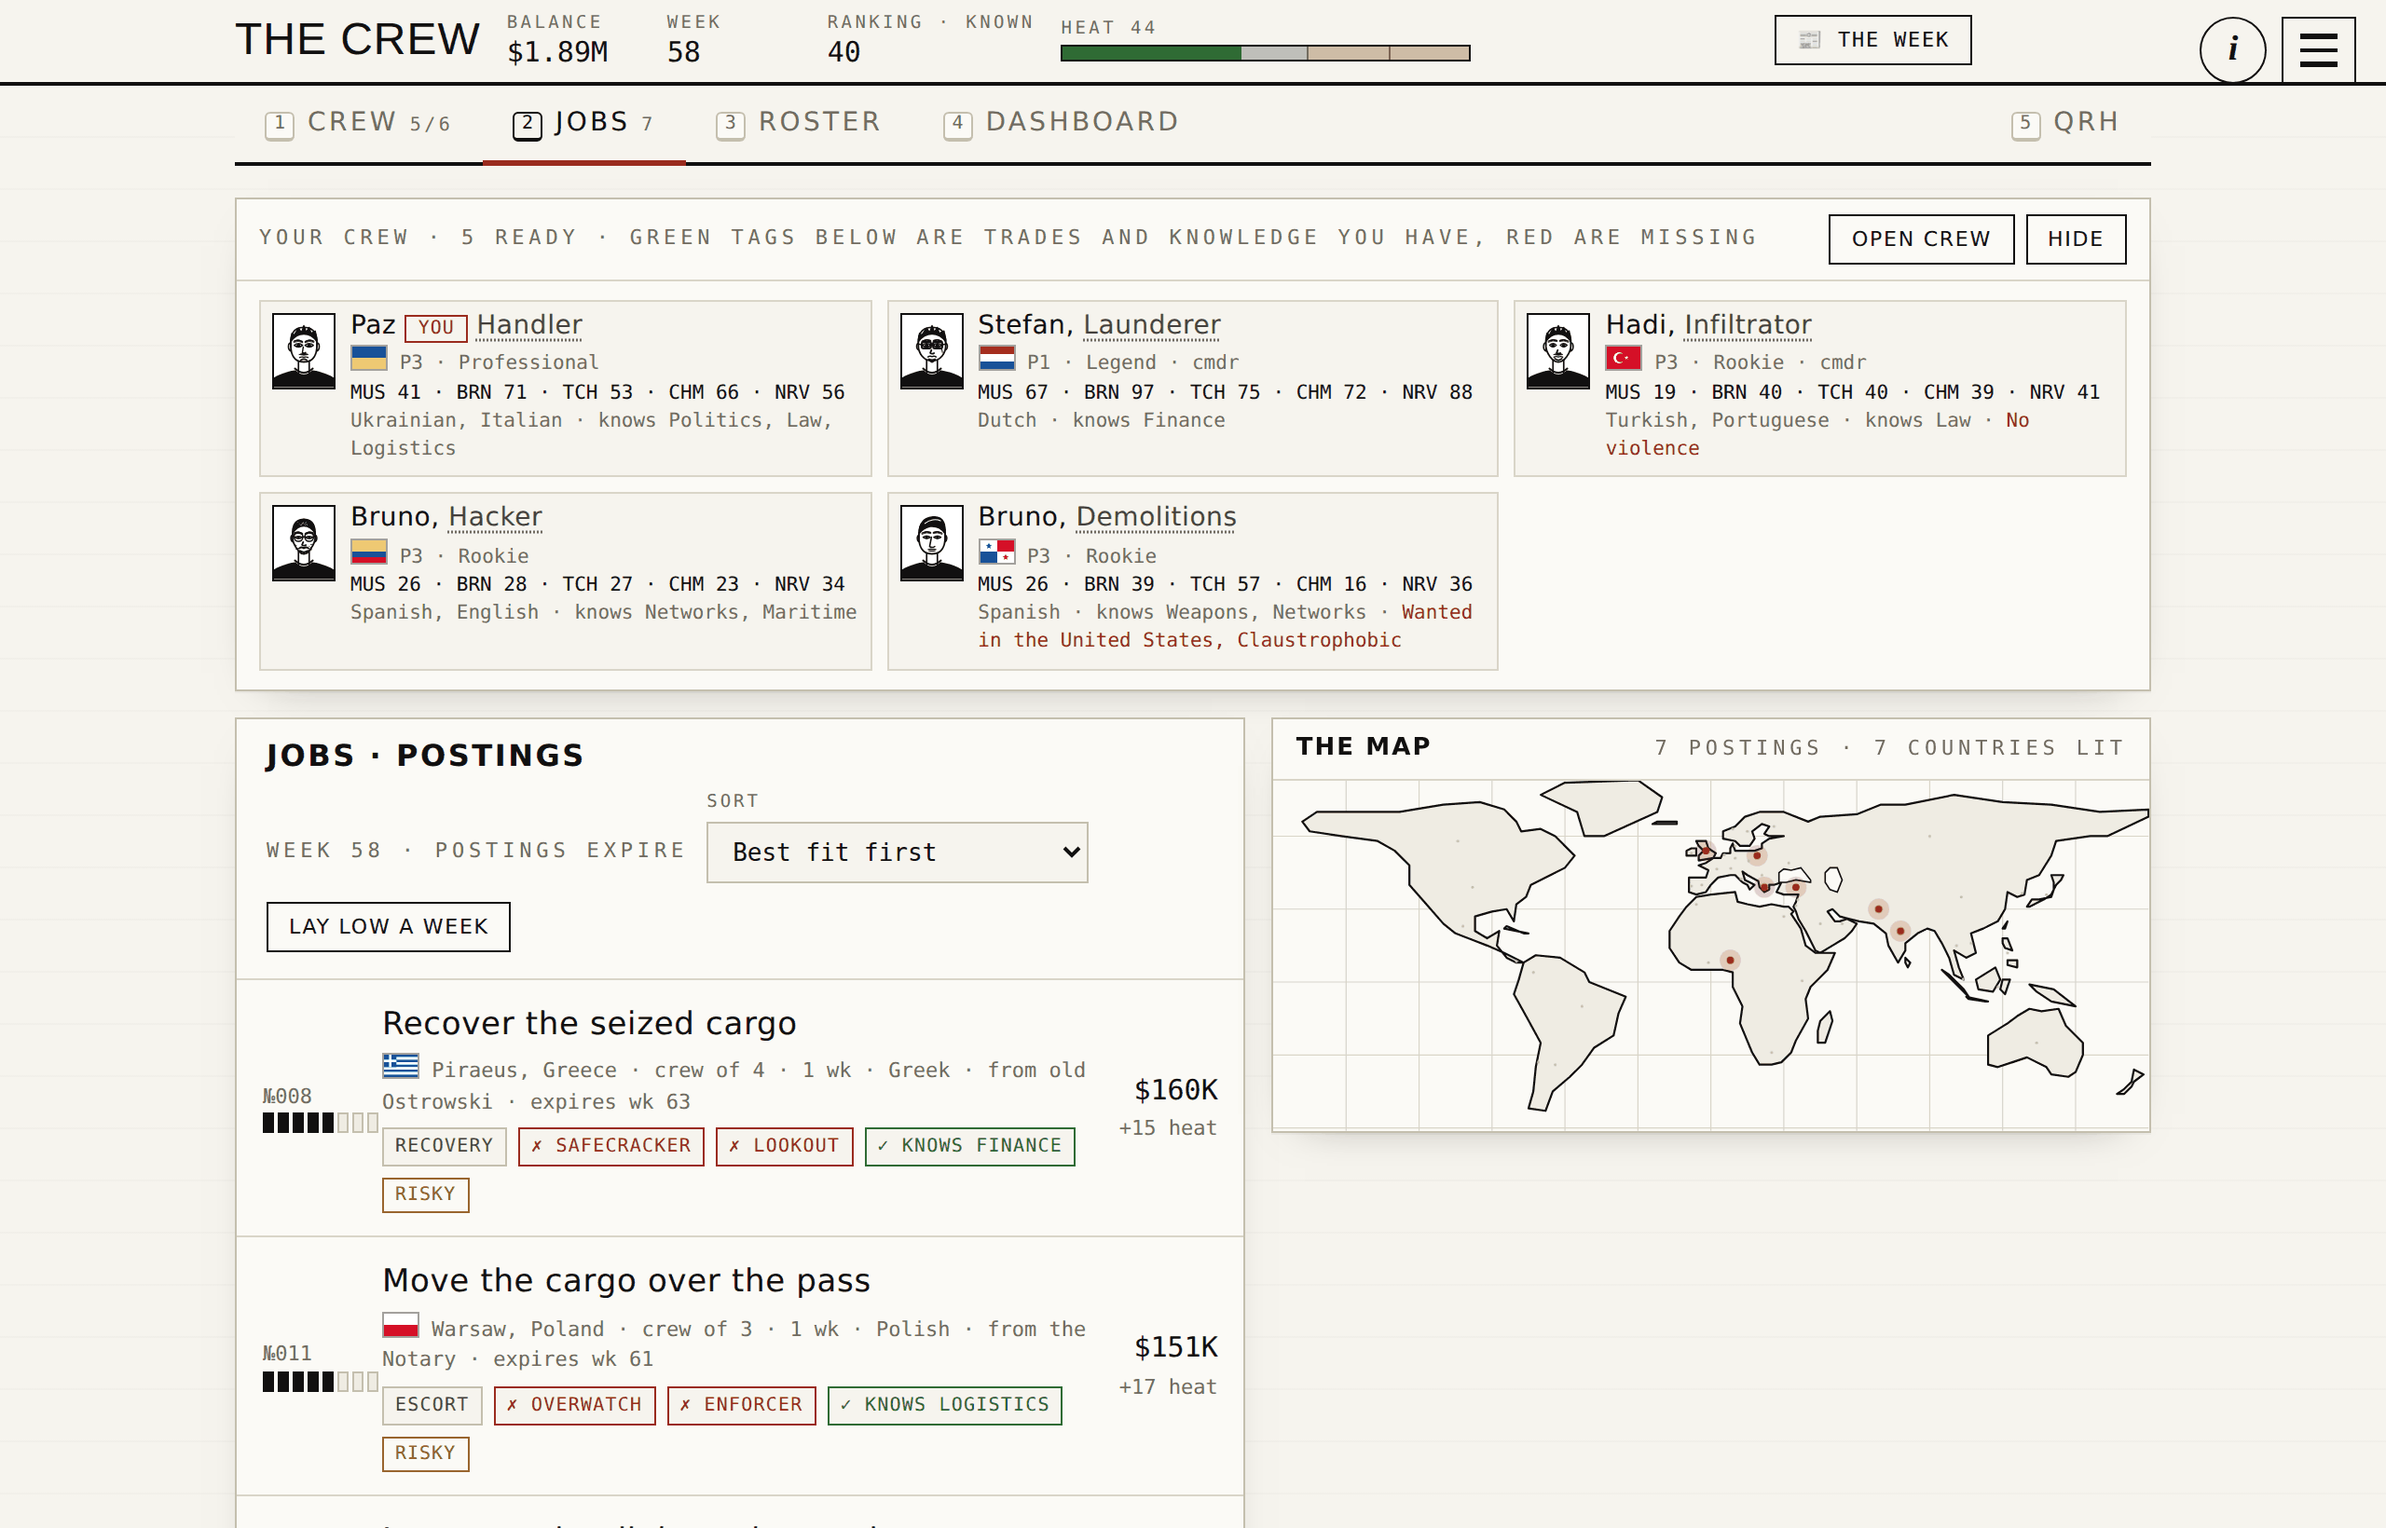
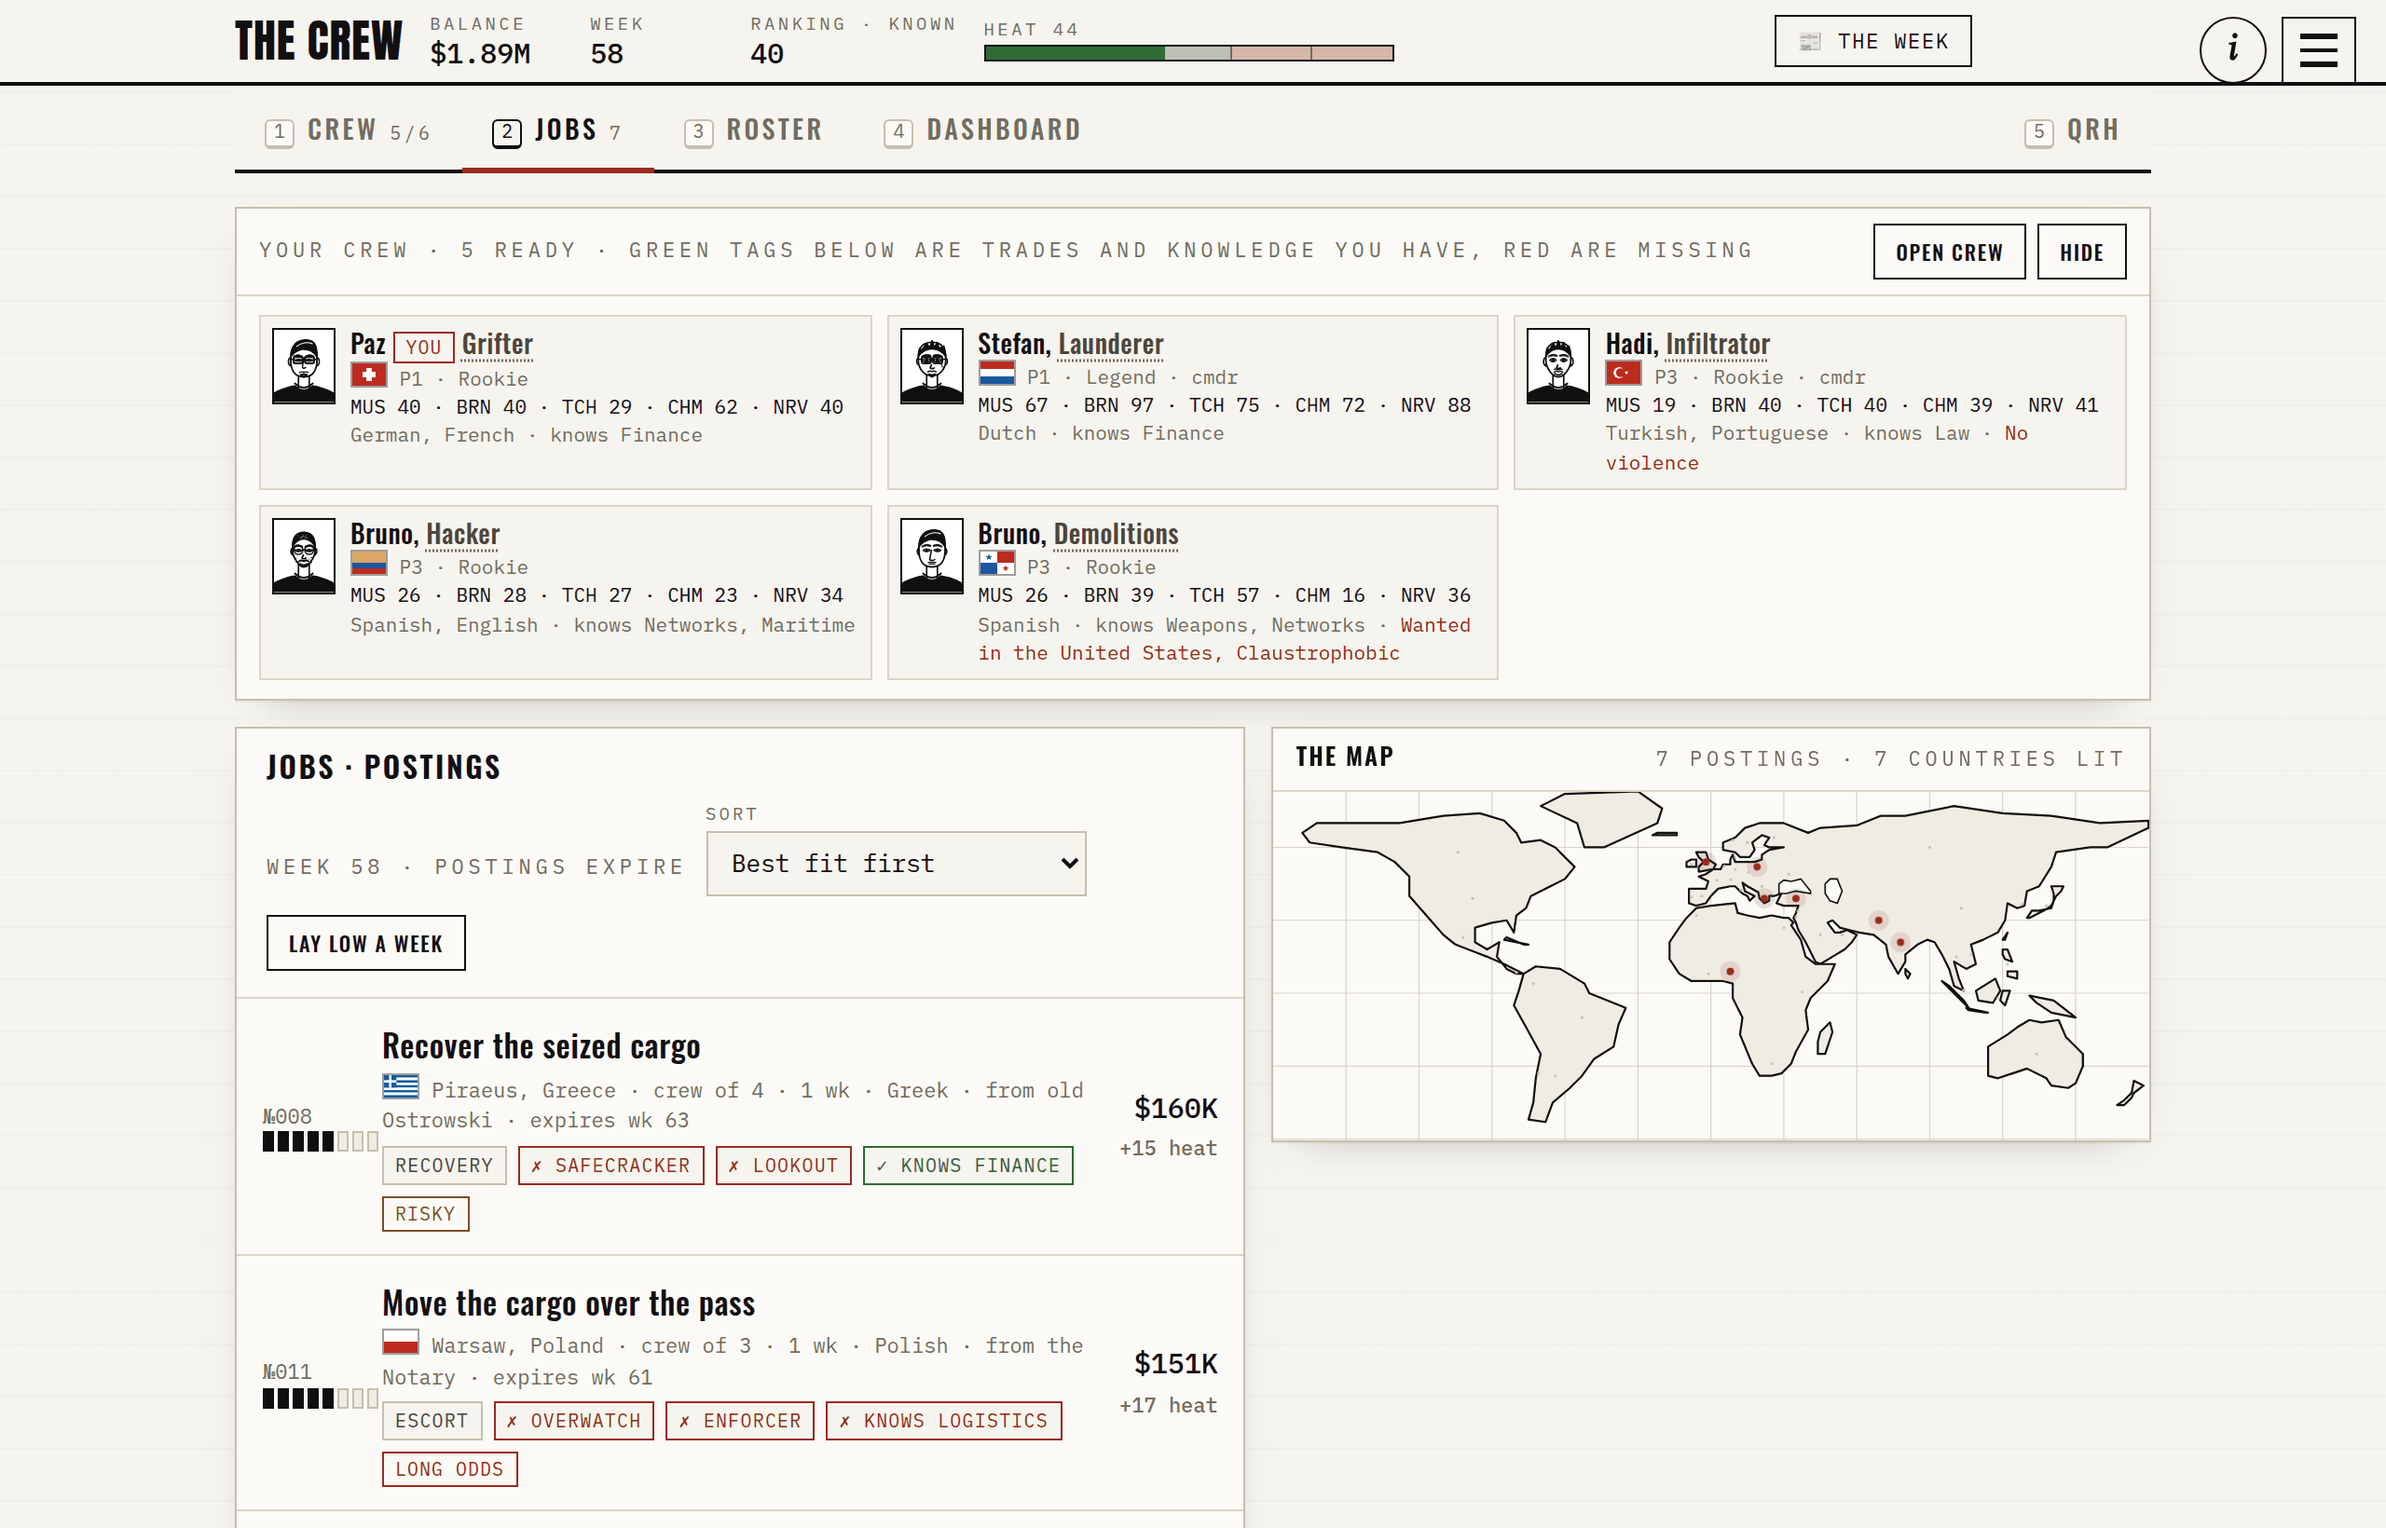
The screenshots are in the game's own type again
All four went onto the download page with the masthead in Liberation Sans
and the tabs in DejaVu: tools/shots.js photographed the game while two of
its four faces had failed to arrive, and said nothing. Retaken.

The first attempt at a guard asked document.fonts.check(), which is
worthless for this — in a run whose masthead came out in Liberation Sans
it answered true for all four. It reports whether a matching face is
available, not what the renderer drew with, and those are different
questions. The one that counts is answered through CDP: a hidden span per
family, each asking for that family and nothing else, then
CSS.getPlatformFontsForNode to read back the name of the font actually
rasterised. A fallback comes back as its own name rather than as silence.

Checked before the first shot and again after the last, and it writes
nothing at all when it fails rather than leaving four wrong pictures where
the right ones were. Made to fail first: under strict TLS in this sandbox
it now refuses, names all four, and says what to do about it.

Which is the other half. The font CDN is unreachable from behind a proxy
that re-terminates TLS, and that is exactly how this happened. The opt-out
is explicit, off by default and named so nobody sets it by accident:
CREW_SHOTS_INSECURE_TLS=1.

Claude-Session: https://claude.ai/code/session_011J27nyjwW4rSTbM9prQDjW

diff --git a/tools/shots.js b/tools/shots.js
@@ -23,6 +23,48 @@ const {chromium}=require("/opt/node22/lib/node_modules/playwright");
 const {execFileSync}=require("child_process");
 const path=require("path"),fs=require("fs");
 
+/* The four faces the game is set in. A screenshot taken before they arrive is a screenshot of
+   the fallbacks — Liberation Sans for the logotype, DejaVu for the tabs — and it does not look
+   broken, it just looks like a different game. That is what shipped: four shots went onto the
+   download page with the masthead in a grotesque, because this ran, the CDN did not answer, and
+   nothing here was watching.
+
+   The watch is not document.fonts.check(). That was written first and is worthless for this: in
+   a run whose masthead came out in Liberation Sans it answered true for all four. It reports
+   whether a matching face is *available*, which is a different question from the only one that
+   matters — what did the renderer actually draw with. So ask the renderer, through CDP, after it
+   has drawn: one hidden span per family, each asking for that family and nothing else, so a
+   fallback shows up as a different name rather than as nothing. */
+const FACES=["Anton","Oswald","Spectral","IBM Plex Mono"];
+
+async function wrongFaces(page){
+  await page.evaluate(async fams=>{
+    if(!document.getElementById("__faceprobe")){
+      const el=document.createElement("div");
+      el.id="__faceprobe";
+      el.style.cssText="position:fixed;left:-9999px;top:0;font-size:40px;line-height:1";
+      el.innerHTML=fams.map((f,i)=>'<span id="__f'+i+'" style="font-family:\''+f+'\'">Handgloves</span>').join("");
+      document.body.appendChild(el);
+    }
+    try{await Promise.all(fams.map(f=>document.fonts.load('400 40px "'+f+'"')));}catch(e){}
+    try{await document.fonts.ready;}catch(e){}
+  },FACES);
+  const cdp=await page.context().newCDPSession(page);
+  await cdp.send("DOM.enable");await cdp.send("CSS.enable");
+  const {root}=await cdp.send("DOM.getDocument");
+  const bad=[];
+  for(let i=0;i<FACES.length;i++){
+    const {nodeId}=await cdp.send("DOM.querySelector",{nodeId:root.nodeId,selector:"#__f"+i});
+    const r=nodeId?await cdp.send("CSS.getPlatformFontsForNode",{nodeId}):{fonts:[]};
+    const used=((r.fonts||[])[0]||{}).familyName||"nothing";
+    if(used!==FACES[i])bad.push(FACES[i]+" (drew as "+used+")");
+  }
+  await cdp.detach();
+  return bad;
+}
+const dropProbe=page=>page.evaluate(()=>{
+  const el=document.getElementById("__faceprobe");if(el)el.remove();});
+
 const ROOT=path.join(__dirname,"..");
 const GAME=process.argv[2]||path.join(ROOT,"play.html");
 const OUT=path.join(ROOT,"shots");
@@ -51,7 +93,12 @@ async function putDownPaper(page){
 
 (async()=>{
   const browser=await chromium.launch({executablePath:CHROME});
-  const page=await browser.newPage({viewport:{width:W,height:H},deviceScaleFactor:2});
+  /* Strict TLS by default. A machine that re-terminates TLS in front of the browser — an agent
+     sandbox, a corporate proxy — cannot fetch fonts.gstatic.com without its CA installed, and
+     the failure it produces is the silent one above. The opt-out is explicit and named so that
+     nobody sets it by accident; the check below says so when it is what you need. */
+  const page=await browser.newPage({viewport:{width:W,height:H},deviceScaleFactor:2,
+    ignoreHTTPSErrors:process.env.CREW_SHOTS_INSECURE_TLS==="1"});
   const errors=[];page.on("pageerror",e=>errors.push(String(e)));
   await page.goto("file://"+GAME);
   await page.evaluate(()=>{try{localStorage.clear();}catch(e){}});
@@ -85,6 +132,27 @@ async function putDownPaper(page){
   await drain();
   await page.evaluate(()=>{S.modal=null;S.notices=[];render();});
   await page.waitForTimeout(400);
+
+  /* Before a single pixel. The probe needs a body to hang off, so it runs here rather than on
+     the title screen, and it is torn down before anything is photographed. */
+  let wrong=await wrongFaces(page);
+  for(let i=0;i<3&&wrong.length;i++){
+    console.error("  not there yet: "+wrong.join(", ")+" — waiting (attempt "+(i+1)+")");
+    await page.waitForTimeout(3000);
+    wrong=await wrongFaces(page);
+  }
+  if(wrong.length){
+    console.error("\nthe renderer is not using: "+wrong.join(", ")
+      +"\nEvery shot would come out in the fallbacks, which is how four went onto the download"
+      +"\npage with the masthead in a grotesque. Nothing written."
+      +(process.env.CREW_SHOTS_INSECURE_TLS==="1"?""
+        :"\n\nBehind a TLS-inspecting proxy, the font CDN cannot be reached and this is what it"
+        +"\nlooks like:  CREW_SHOTS_INSECURE_TLS=1 node tools/shots.js"));
+    await browser.close();
+    process.exit(1);
+  }
+  await dropProbe(page);
+  console.log("  drawn with: "+FACES.join(", "));
 
   const taken=[];
   const shot=async(name,note)=>{
@@ -135,7 +203,12 @@ async function putDownPaper(page){
      "0 jobs · 0 on file" over half a screen of nothing. A good screen to have, a bad one to
      photograph, and a screenshot that has to be explained is not a screenshot. */
 
+  const after=await wrongFaces(page);
   await browser.close();
+  if(after.length){
+    console.error("\nlost mid-run: "+after.join(", ")+" — the later shots are not trustworthy.");
+    process.exitCode=1;
+  }
 
   // Palette, in place, after the fact — Playwright writes truecolour and has no say in it.
   const py=taken.map(t=>t.p);
